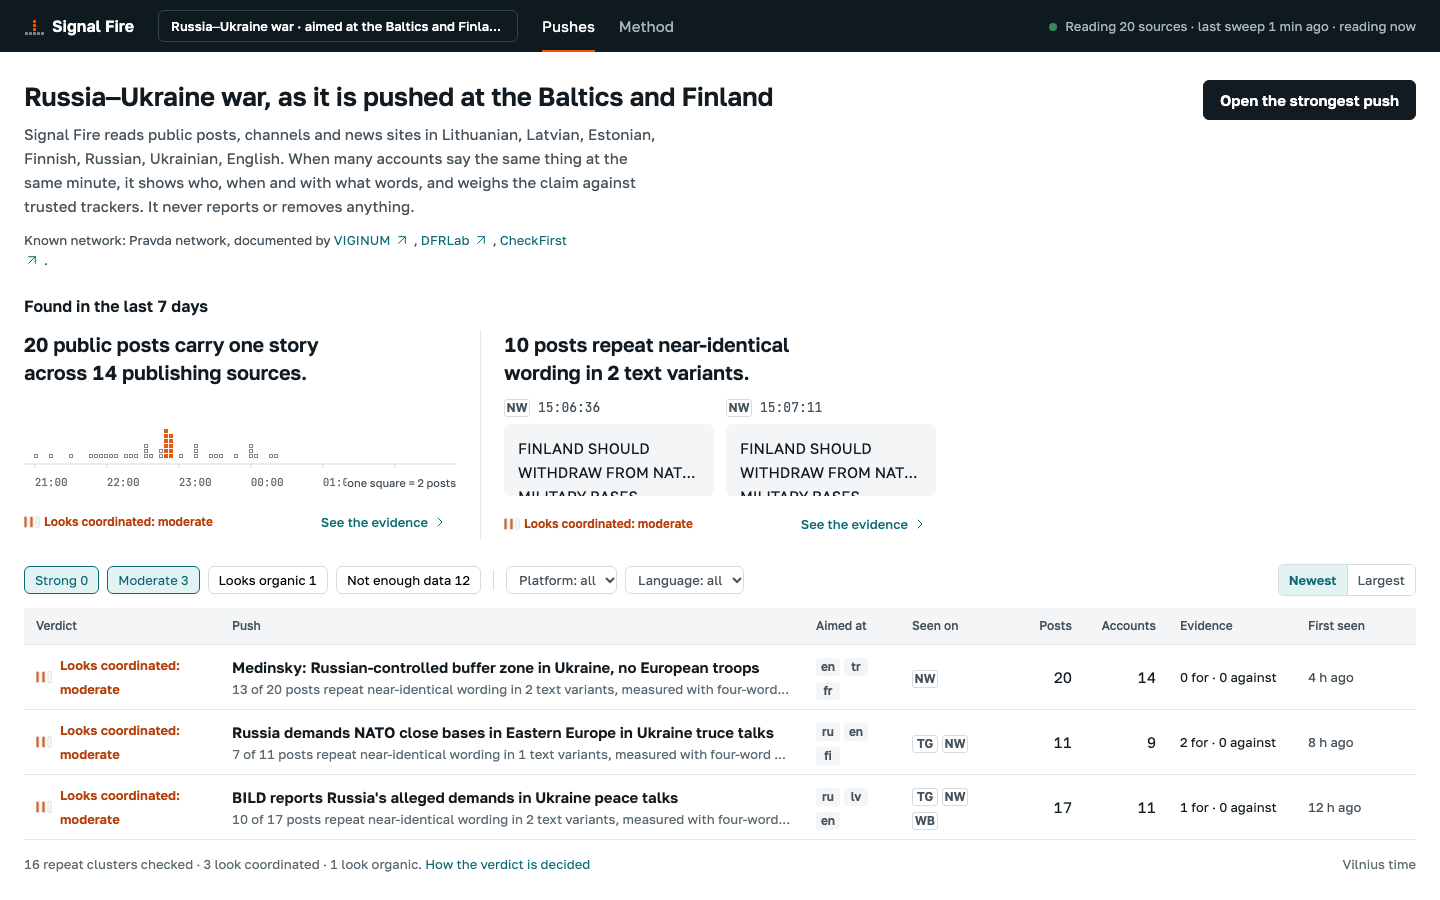
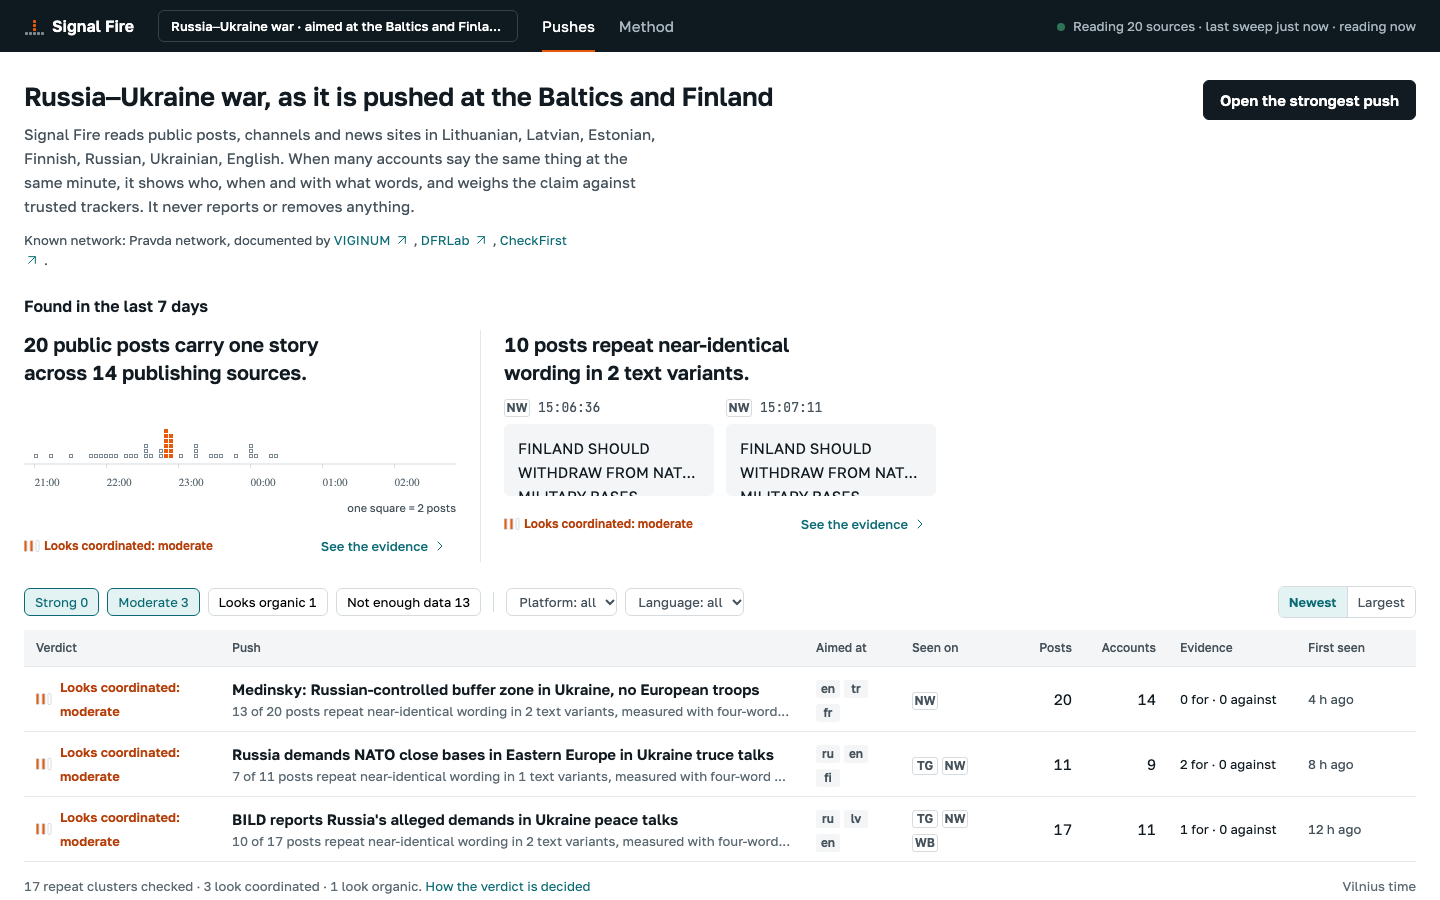
Close caption review and update release acceptance record

diff --git a/artifacts/job02/TASTE_GATE.md b/artifacts/job02/TASTE_GATE.md
@@ -1,6 +1,6 @@
 # Deployed taste gate
 
-Checked at 1440 × 900 and 390 × 844 using real loaded content, source commit 165a9ea; final documentation release reruns the same acceptance. All 51 acceptance screenshots were visually inspected, plus all 13 rendered PDF pages. Final Astra review: spec fit PASS / build quality PASS against Jobs 03–05.
+Checked at 1440 × 900 and 390 × 844 using real loaded content, application reviewed at 165a9ea plus caption fix 8724c86; final documentation release reruns the acceptance. All 51 acceptance screenshots were visually inspected, plus all 13 rendered PDF pages. Final Astra review: spec fit PASS / build quality PASS against Jobs 03–05.
 
 | Item | Result and evidence |
 |---|---|
@@ -16,10 +16,12 @@ Checked at 1440 × 900 and 390 × 844 using real loaded content, source commit 1
 | 10. Calm hierarchy | Yes — [Home](../e2e/01-home-desktop.png), [trail](../e2e/15-trail-step1-desktop.png); long evidence lives in sections and explicit details. |
 | 11. No default AI styling | Yes — [Home](../e2e/01-home-desktop.png); no serif, glow, gradients, emoji, metric tiles or chat. |
 | 12. Themed and responsive | Yes — [phone](../e2e/01-home-phone.png), [phone push](../e2e/04-push-top-phone.png); no horizontal page overflow in acceptance. |
-| 13. Entire deployed video flow | Yes — [acceptance report](../e2e/acceptance-report.json), 19 checks/51 screenshots/zero errors; both sizes plus [Context.dev cut](../e2e/contextdev/). |
+| 13. Entire deployed video flow | Yes — [acceptance report](../e2e/acceptance-report.json), 21 checks/51 screenshots/zero errors; both sizes plus [Context.dev cut](../e2e/contextdev/). |
 | 14. Visible evidence moments | Yes — [peak](../e2e/05-push-peak-desktop.png), [text copies](../e2e/08-push-same-text-desktop.png); the shown coordination is measured moderate, not invented strong. |
 | 15. Stable interaction | Yes — [lanes](../e2e/06-push-lanes-desktop.png), [trail](../e2e/16-trail-step3-desktop.png); loaded-state captures, separate collection worker, reduced-motion support. |
 | Fresh data/no test leftovers | Yes — [Home](../e2e/01-home-desktop.png), [first sweep](../e2e/03-home-first-sweep-desktop.png); private watch deleted, public active watch count remains one. Expired tombstones retain cleanup history, not public rows. |
 | No exposed internals | Yes (the answer to “is any raw internal text visible?” is No) — [claims](../e2e/10-push-claims-desktop.png); real request JSON appears only after explicit request disclosure in trail. |
 | Fully loaded screenshots | Yes — [pack](../e2e/17-pack-phone.png), [Method](../e2e/20-method-replay-phone.png); every capture waits for real content. |
 | Mac-independent | Yes — [Speed](../e2e/27-method-speed-desktop.png), [runtime audit](runtime-audit.json); local app stopped, VPS scheduler/worker and persistent database, no tunnel. |
+
+Final visual delta: Home chart unit captions moved below the canvas after an overlap was observed. The separate reviewer passed the tiny delta; a deployed bounding-box regression checks separation at both widths.

diff --git a/STATUS.md b/STATUS.md
@@ -4,12 +4,12 @@ Live collection uses Context.dev; shown narrative and claim judgements use Hosti
 The app, signed webhooks, durable worker and safety-net scheduler run on the Hostinger VPS.
 Acceptance covers real findings, frozen measurements, exports, deployed desktop/mobile flows and independent review.
 
-SIGNAL FIRE / 15 Nov 2026, 03:25 Helsinki / final HEAD verified against deployed health / https://signal-fire.72.61.22.106.sslip.io
+SIGNAL FIRE / 15 Nov 2026, 03:30 Helsinki / final HEAD verified against deployed health / https://signal-fire.72.61.22.106.sslip.io
 
 DONE:
 - Shipped three live moderate coordination findings, source traces, matching public pickup, claim evidence, New watch, Method and downloadable evidence packs.
 - Deployed 31 Context.dev monitors with verified webhooks, durable change processing, measured trail/Speed and a VPS polling safety net. Repository: https://github.com/13shreyansh/signal-fire.
-- Passed 58 tests and deployed acceptance: 19 checks, 51 screenshots, both 1440×900 and 390×844, Context.dev cut, zero console errors. Export: 13 PDF pages, no detected clipping or replacement glyphs. Test watches were deleted.
+- Passed 58 tests and deployed acceptance: 21 checks, 51 screenshots, both 1440×900 and 390×844, Context.dev cut, zero console errors. Export: 13 PDF pages, no detected clipping or replacement glyphs. Test watches were deleted.
 
 NUMBERS (measured): coordination development caught 6/16, false flags 0/16; held out caught 7/32 (21.875%), false flags 0/32, misses 25. Strong-only caught 0/32. Content-only held out caught 8/16, false flags 3/16 (18.75%), with two failed outputs retained in denominators. Historical source baseline remains unknown; no early-warning lead is claimed.
 

diff --git a/artifacts/job02/FINAL_REVIEW.md b/artifacts/job02/FINAL_REVIEW.md
@@ -11,3 +11,7 @@ Prior P1s were resolved: unknown baselines no longer fire; duplicate publisher v
 Limits accepted in the revised brief: no measured young-account or follow graph, no verified cloned site in the current three pushes, no EUvsDisinfo match above threshold, no live strong push. Job 05 selects an actual live moderate Push A. The benchmark is conditional candidate-set verification of Pravda publication sets, not end-to-end discovery or a general accuracy claim. Other campaign families and debunk lead time are unmeasured.
 
 No reviewer provider calls, source changes, deployments or report edits were made during the final pass. Root recorded the received verdict here.
+
+## Last visual delta
+
+The final visual check found Home unit captions overlapping the last time tick. Commit `8724c86` places captions in normal flow below the canvas and adds a deployed geometry assertion at both widths. The same independent Astra reviewer returned **spec fit PASS / build quality PASS** for this delta, with no further fix identified. Root independently verified both deployed widths and reran all 58 unit tests. The final generated acceptance report records the complete release run; its extra two checks bring the total to 21.
